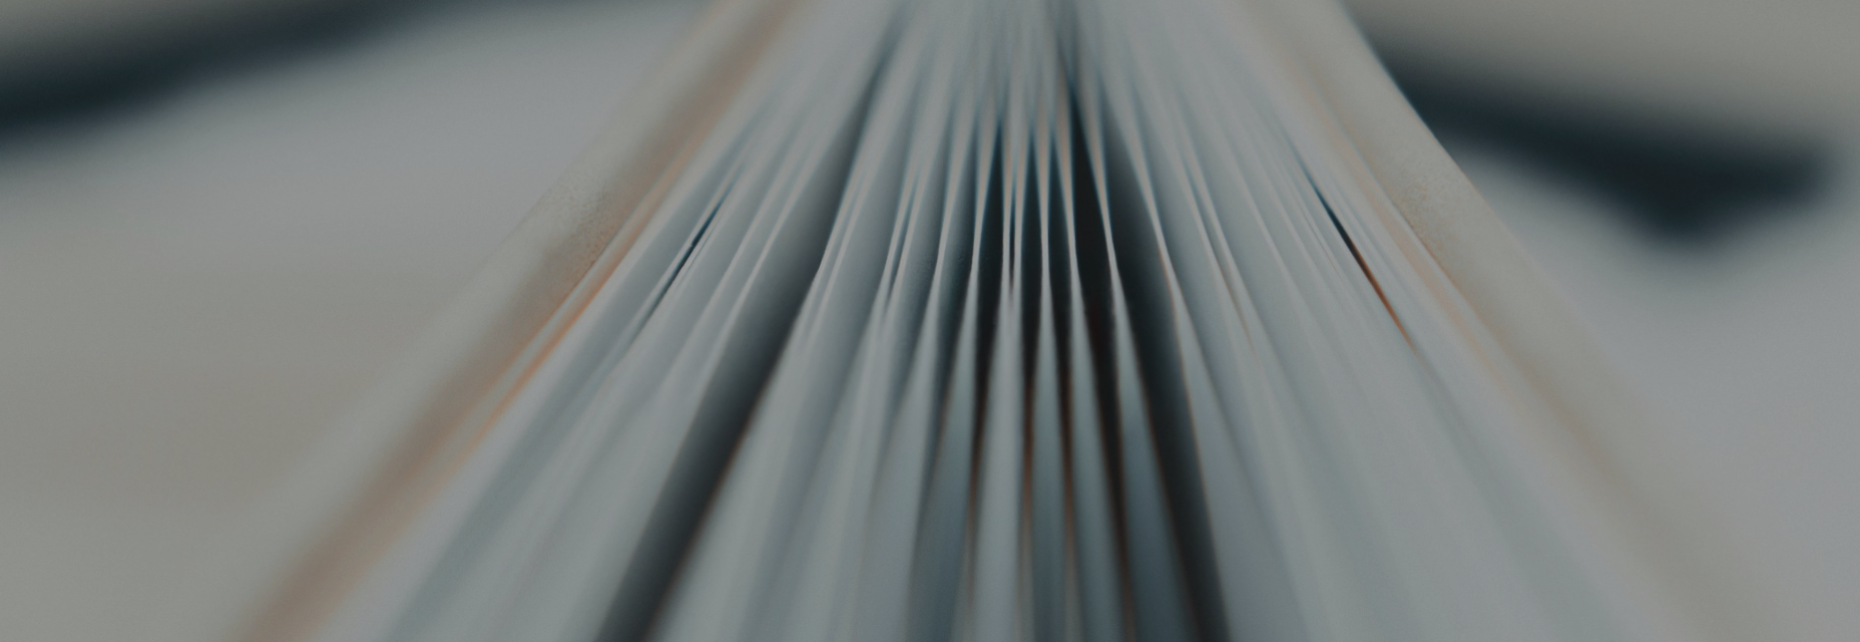
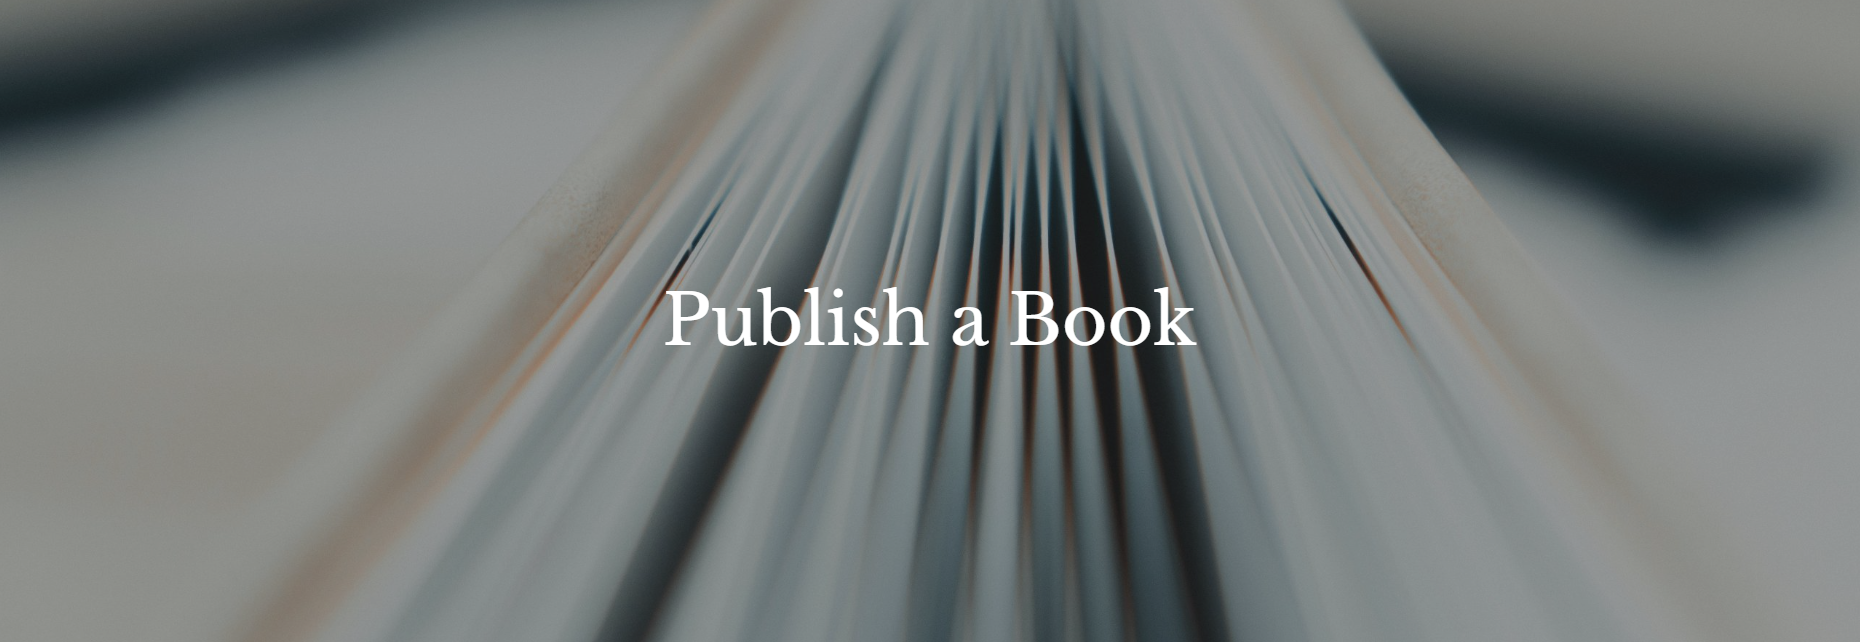
Reverted to commit 95f169bfee9e3fe6e9a581341905b604a650c347

Changed region(s): [[0.343, 0.405, 0.6548, 0.5607]]

diff --git a/src/pages/PublishABook.tsx b/src/pages/PublishABook.tsx
@@ -34,8 +34,15 @@ export default function PublishABook() {
     <div className="min-h-screen bg-white">
       <Header />
       {/* Hero Section */}
-      <section className="relative w-full">
-        <img src={heroImage} alt="Publish a Book" className="w-full h-auto block" />
+      <section className="relative h-[80vh] min-h-[600px] flex items-center justify-center">
+        <div
+          className="absolute inset-0 bg-cover bg-center"
+          style={{
+            backgroundImage: `url(${heroImage})`,
+          }}
+        >
+          <div className="absolute inset-0 bg-transparent" />
+        </div>
       </section>
 
       {/* Breadcrumb */}
